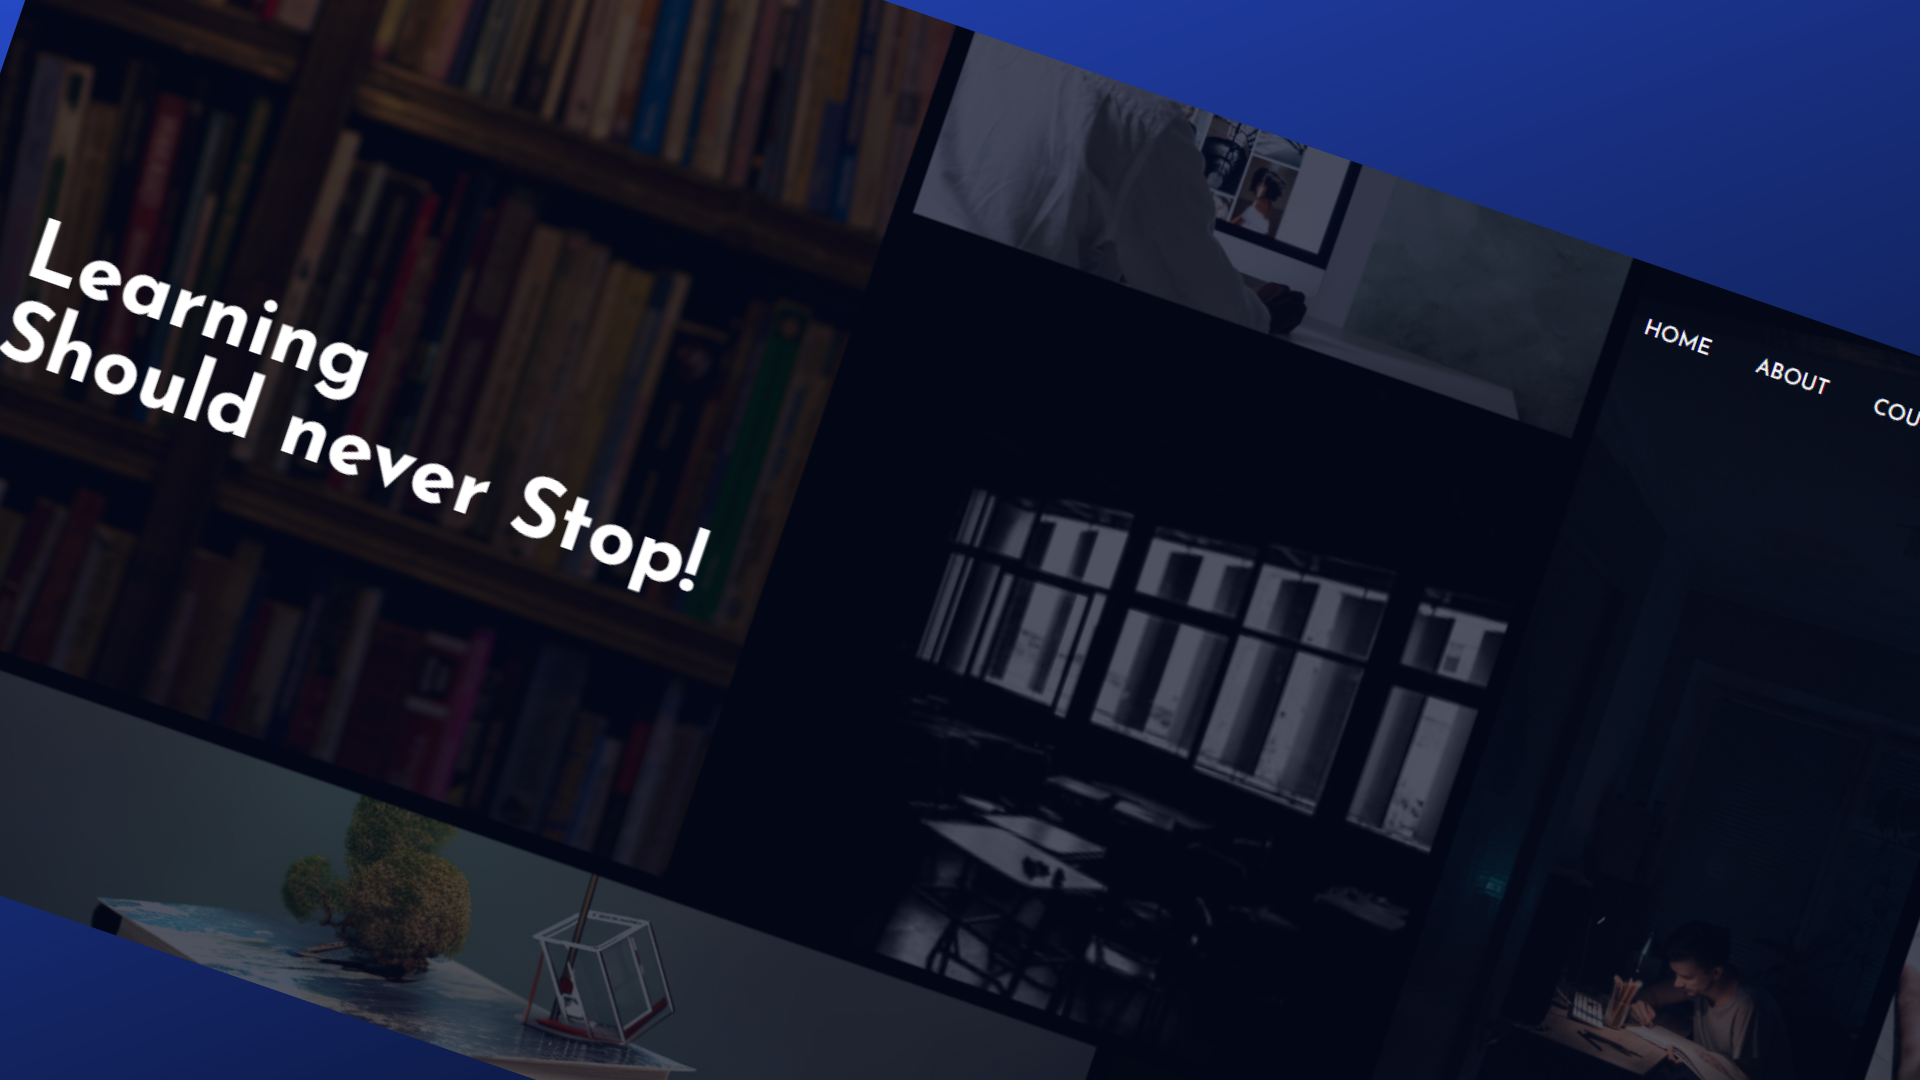
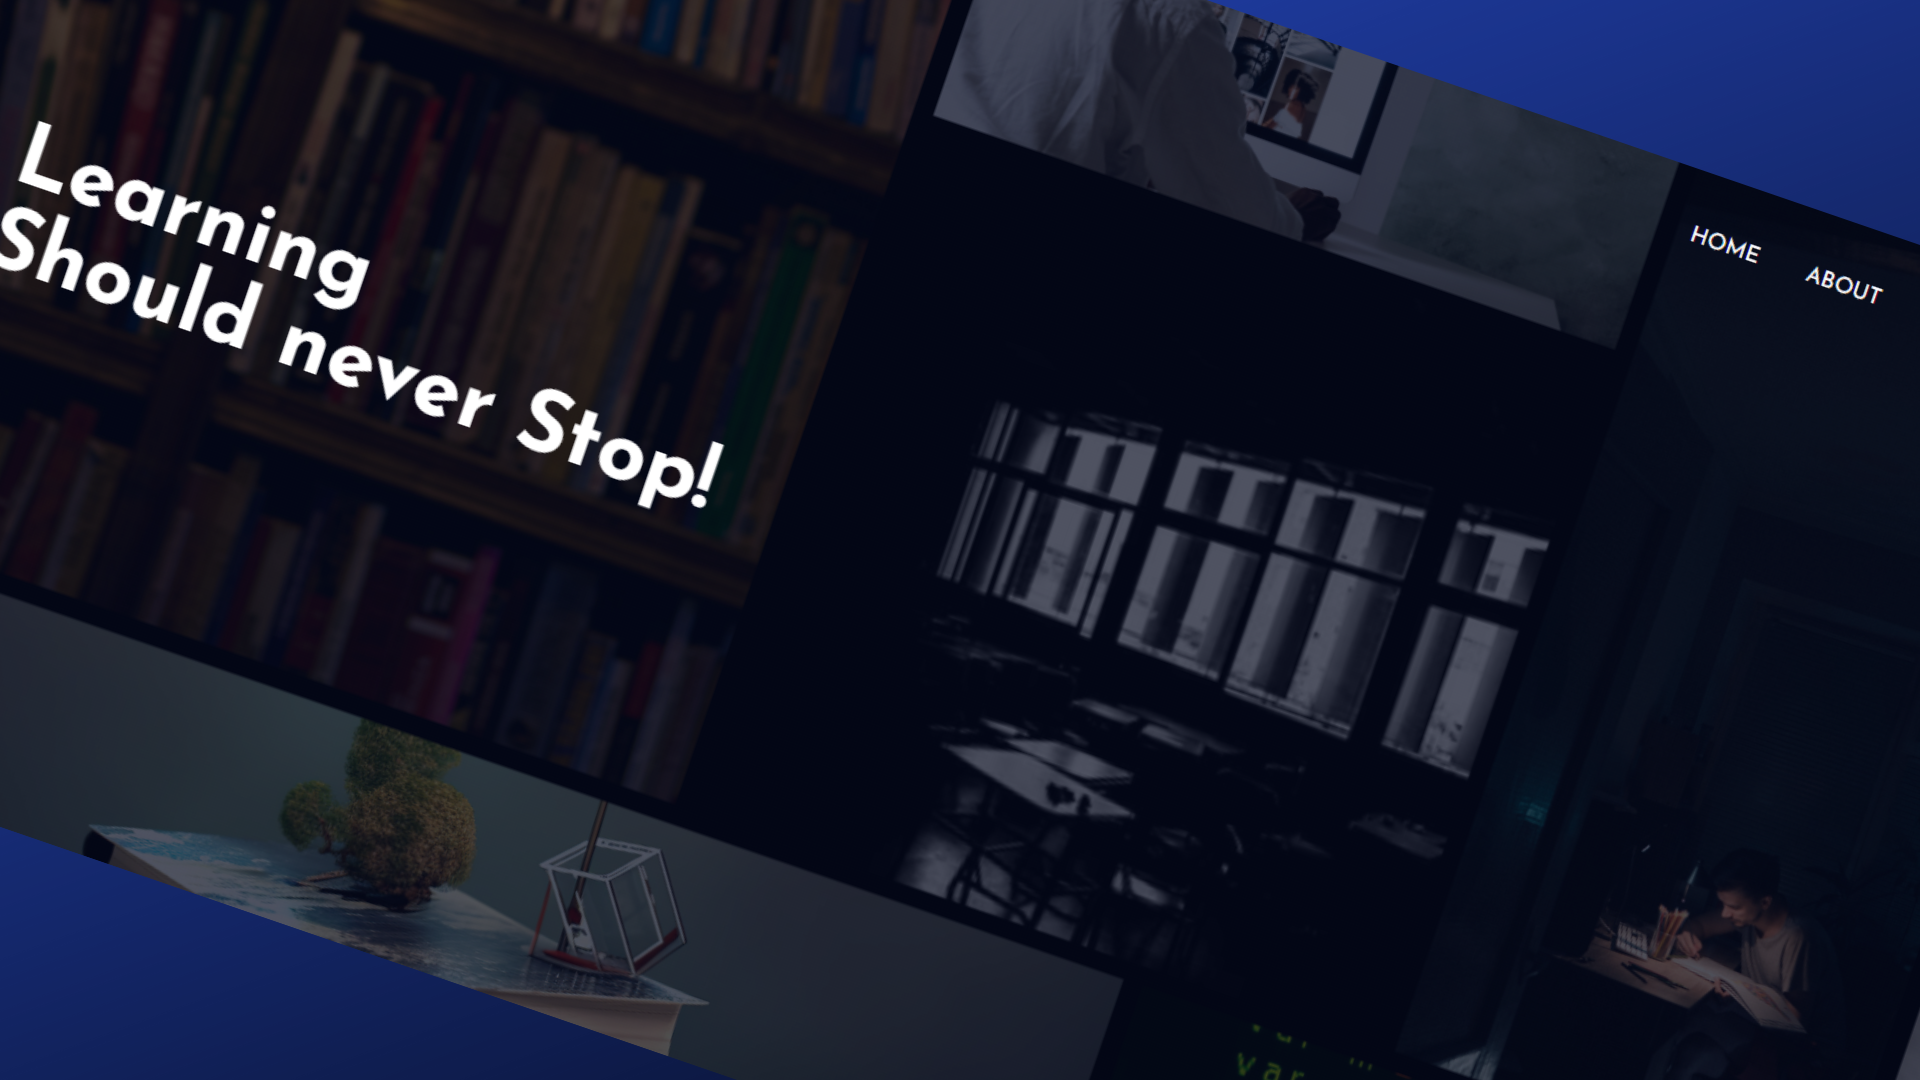
2nd final

diff --git a/components/ui/Form.tsx b/components/ui/Form.tsx
@@ -1,21 +1,22 @@
 "use client";
 
-import Image from "next/image";
 import React, { useState } from "react";
 import { CardBody, CardContainer, CardItem } from "../ui/3d-card";
-import Link from "next/link";
 import { Bounce, ToastContainer, toast } from 'react-toastify';
 import 'react-toastify/dist/ReactToastify.css';
 import emailjs from 'emailjs-com';
 import { MdOutlineClose } from "react-icons/md";
 
-export function Form() {
 
-    const [name, setname] = useState<string>();
-    const [mail, setmail] = useState<string>();
-    const [message, setmessage] = useState<string>();
-    
+interface FormProps {
+    onClose: () => void;
+  }
 
+export function Form({ onClose }: FormProps) {
+
+    const [name, setname] = useState<string>('');
+    const [mail, setmail] = useState<string>('');
+    const [message, setmessage] = useState<string>('');
 
     const notify = () => toast.success('Submitted Successfully!', {
         position: "top-center",
@@ -69,25 +70,30 @@ export function Form() {
 
     return (
         <CardContainer className="inter-var">
-            <CardBody className="relative group/card xl:mt-[-40px] mt-[-60px] dark:hover:shadow-2xl dark:hover:shadow-emerald-500/[0.1] bg-transparent dark:border-white/[0.2] border-black/[0.1] xl:w-[480px] w-[23rem] h-auto rounded-xl p-6 border flex justify-center">
-                <CardItem
-                    translateZ="50"
-                    className="xl:text-3xl text-2xl flex flex-col items-center justify-center font-bold text-neutral-600 dark:text-white"
-                >
-                    <h1>Let&apos;s work together  </h1>
-                    <form onSubmit={handleSubmit} className="flex flex-col p-1">
-                        <input onChange={(e) => setname(e.target.value)} value={name} type="text" name="name" placeholder="Name" className="bg-transparent border text-xl border-white/50 mt-5 rounded-xl p-3 sm:p-[-30px] w-[340px] xl:w-[450px] " required />
-                        <input onChange={(e) => setmail(e.target.value)} value={mail} type="email" name="email" placeholder="Email" className="bg-transparent border text-xl border-white/50 mt-5 rounded-xl p-3 sm:p-[-30px] w-[340px]  xl:w-[450px] " required />
-                        <textarea onChange={(e) => setmessage(e.target.value)} value={message} name="text" placeholder="Message" className="bg-transparent border text-xl border-white/50 mt-5 rounded-xl p-3 sm:p-[-30px] w-[340px]  xl:w-[450px] h-[200px]" required />
-                        <button type="submit" className="bg-transparent border text-xl border-white/50 mt-3 rounded-full p-3 sm:p-[-30px] w-[340px]  xl:w-[450px] hover:bg-white hover:text-black">Submit</button>
-                    </form>
-                </CardItem>
-            </CardBody>
+             
+                <CardBody className="relative group/card xl:mt-[-40px] mt-[-60px] mb-[-100px] dark:hover:shadow-2xl dark:hover:shadow-emerald-500/[0.1] bg-transparent dark:border-white/[0.2] border-black/[0.1] xl:w-[480px] w-[23rem] h-auto rounded-xl p-6 border flex justify-center">
+                    <CardItem
+                        translateZ="50"
+                        className="xl:text-3xl text-2xl flex flex-col items-center justify-center font-bold text-neutral-600 dark:text-white"
+                    >
+                        <MdOutlineClose onClick={onClose}  className="xl:mt-[-15px] xl:ml-[440px] xl:mb-1 xl:size-7 mt-[-15px] ml-[330px] mb-1 size-5"/>
+
+                        <h1>Let&apos;s work together
+                        </h1>
+
+                        <form onSubmit={handleSubmit} className="flex flex-col p-1">
+                            <input onChange={(e) => setname(e.target.value)} value={name} type="text" name="name" placeholder="Name" className="bg-transparent border text-xl border-white/50 mt-5 rounded-xl p-3 sm:p-[-30px] w-[340px] xl:w-[450px] " required />
+                            <input onChange={(e) => setmail(e.target.value)} value={mail} type="email" name="email" placeholder="Email" className="bg-transparent border text-xl border-white/50 mt-5 rounded-xl p-3 sm:p-[-30px] w-[340px]  xl:w-[450px] " required />
+                            <textarea onChange={(e) => setmessage(e.target.value)} value={message} name="text" placeholder="Message" className="bg-transparent border text-xl border-white/50 mt-5 rounded-xl p-3 sm:p-[-30px] w-[340px]  xl:w-[450px] h-[200px]" required />
+                            <button type="submit" className="bg-transparent border text-xl border-white/50 mt-3 rounded-full p-3 sm:p-[-30px] w-[340px]  xl:w-[450px] hover:bg-white hover:text-black">Submit</button>
+                        </form>
+                    </CardItem>
+                   
+                </CardBody>
+            
         </CardContainer>
     );
 };
 export default Form;
-function setFormVisible(arg0: boolean) {
-    throw new Error("Function not implemented.");
-}
+
 

diff --git a/app/page.tsx b/app/page.tsx
@@ -7,39 +7,42 @@ import RecentProjects from "@/components/RecentProjects";
 import Approach from "@/components/Approach";
 import { FloatingNav } from "@/components/ui/FloatingNav";
 import { Bounce, ToastContainer, toast } from 'react-toastify';
+import LocomotiveScroll from "locomotive-scroll";
+
 
 const Home = () => {
-    return (
-   
-        <main className="relative bg-black-100 flex justify-center overflow-x-hidden overflow-y-hidden items-center flex-col mx-auto sm:px-10 px-5">
+  const locomotiveScroll = new LocomotiveScroll();
+  return (
+    <main className="relative bg-black-100 flex justify-center overflow-x-hidden overflow-y-hidden items-center flex-col mx-auto sm:px-10 px-5">
+      <div className="max-w-7xl w-full">
+        
+        <FloatingNav
+          navItems={navItems}
 
-          <div className="max-w-7xl w-full">
-            <FloatingNav
-              navItems={navItems}
-            />
-            <Hero />
-            <Grid />
-            <RecentProjects />
-            <Approach />
-            <Footer />
-            <ToastContainer
-              position="top-center"
-              autoClose={5000}
-              hideProgressBar={false}
-              newestOnTop={false}
-              closeOnClick
-              rtl={false}
-              pauseOnFocusLoss
-              draggable
-              pauseOnHover
-              theme="dark"
-              transition={Bounce}
-            />
-          </div>
-        </main>
+        />
+        <Hero />
+        <Grid />
+        <RecentProjects />
+        <Approach />
+        <Footer />
+        <ToastContainer
+          position="top-center"
+          autoClose={5000}
+          hideProgressBar={false}
+          newestOnTop={false}
+          closeOnClick
+          rtl={false}
+          pauseOnFocusLoss
+          draggable
+          pauseOnHover
+          theme="dark"
+          transition={Bounce}
+        />
+      </div>
+    </main>
 
-    );
-  
+  );
+
 };
 
 export default Home;

diff --git a/components/Approach.tsx b/components/Approach.tsx
@@ -25,8 +25,8 @@ const Approach = () => {
                         containerClassName="bg-transparent rounded-3xl overflow-hidden"
                         colors={[
                             // change the colors of the
-                            [0, 0, 7],
-                            [105, 205, 251],
+                            [255, 187, 0],
+                            [255, 187, 0],
                         ]}
                         dotSize={3}
                        
@@ -47,8 +47,8 @@ const Approach = () => {
                         containerClassName="bg-transparent rounded-3xl overflow-hidden"
                         colors={[
                             // change the colors of the
-                            [0, 0, 7],
-                            [200, 40, 121],
+                            [255, 0, 90],
+                            [255, 0, 90],
                         ]}
                         dotSize={3}
                        
@@ -66,8 +66,8 @@ const Approach = () => {
                         containerClassName="bg-transparent rounded-3xl overflow-hidden"
                         colors={[
                             // change the colors of the
-                            [0, 0, 7],
-                            [100, 155, 55],
+                            [0, 51, 255],
+                            [0, 51, 255],
                         ]}
                         dotSize={3}
                     />
@@ -103,7 +103,9 @@ const Card = ({
                 background: "rgb(4,7,29)",
                 backgroundColor:
                     "linear-gradient(90deg, rgba(4,7,29,1) 0%, rgba(12,14,35,1) 100%)",
+                
             }}
+            
         >
             
 

diff --git a/components/Footer.tsx b/components/Footer.tsx
@@ -1,5 +1,4 @@
 import { FaLocationArrow } from "react-icons/fa6";
-
 import { socialMedia } from "@/data";
 import MagicButton from "../components/ui/MagicButton";
 import {Form} from "../components/ui/Form";
@@ -7,19 +6,21 @@ import { useState } from "react";
 
 const Footer = () => {
   const [isFormVisible, setFormVisible] = useState(false);
+
   const handleClick = () => {
     setFormVisible(true);
+  };
+
+  const handleCloseForm = () => {
+    setFormVisible(false);
   };
 
   return (
     <footer className="relative w-full pt-20 pb-10 mt-[-150px]" id="contact">
       {/* background grid */}
-
-
       <div className="flex flex-col items-center">
         <h1 className="heading lg:max-w-[45vw] text-6xl text-center">
           Let&apos;s<span className="text-purple"> Connect!</span>
-
         </h1>
         <p className="text-white-200 md:mt-10 my-5 text-2xl text-center">
           Reach out today to discuss how I can help you
@@ -34,7 +35,7 @@ const Footer = () => {
             handleClick={handleClick}
           />
         </div>
-        {isFormVisible && <Form />}
+        {isFormVisible && <Form onClose={handleCloseForm} />}
       </div>
 
       <div className="flex items-center justify-center md:gap-3 gap-6 mt-10">

diff --git a/components/ui/MagicButton.tsx b/components/ui/MagicButton.tsx
@@ -15,7 +15,7 @@ const MagicButton = ({
 
         <button onClick={handleClick} className="relative inline-flex h-12 overflow-hidden rounded-full p-[1px] focus:outline-none md:w-[200px] md:mt-10">
             <span className="absolute inset-[-2000%] z-0 animate-[spin_2s_linear_infinite] bg-[conic-gradient(from_90deg_at_50%_50%,#E2CBFF_0%,#393BB2_50%,#E2CBFF_100%)]"  style={{zIndex: 0}} />
-            <span className={`relative z-10 inline-flex h-full w-full cursor-pointer items-center justify-center rounded-full bg-black px-3 py-1 text-md font-medium text-white backdrop-blur-3xl ${otherClasses}`}>
+            <span className={`relative z-10 inline-flex h-full w-full cursor-pointer items-center justify-center rounded-full bg-zinc-900 px-3 py-1 text-md font-medium text-white backdrop-blur-3xl ${otherClasses}`}>
                 {position === 'left' && icon}
                 {title}
                 {position === 'right' && icon}

diff --git a/components/ui/Background-boxes.tsx b/components/ui/Background-boxes.tsx
@@ -24,7 +24,7 @@ export const BoxesCore = ({ className, ...rest }: { className?: string }) => {
   return (
     <div
       style={{
-        transform: `translate(-40%,-60%) skewX(-48deg) skewY(14deg) scale(0.675) rotate(0deg) translateZ(0)`,
+        transform: `translate(-40%,-60%) scale(1) rotate(0deg) translateZ(0)`,
       }}
       className={cn(
         "absolute left-1/4 p-4 -top-1/4 flex  -translate-x-1/2 -translate-y-1/2 w-full h-full z-0 ",
@@ -47,7 +47,7 @@ export const BoxesCore = ({ className, ...rest }: { className?: string }) => {
                 transition: { duration: 2 },
               }}
               key={`col` + j}
-              className="w-16 h-8 relative"
+              className="w-20 h-20 relative"
             >
               {j % 2 === 0 && i % 2 === 0 ? (
                 <svg

diff --git a/data/index.ts b/data/index.ts
@@ -12,8 +12,8 @@ export const navItems = [
   export const gridItems = [
     {
       id: 1,
-      title: "Bachelor's of Computer Application Student",
-      description: "",
+      title: "Bachelor's of Computer Application Student At Christ University",
+      description: " Batch of 2025",
       className: "lg:col-span-3 md:col-span-6 md:row-span-4 lg:min-h-[60vh]",
       imgClassName: "w-full h-full",
       titleClassName: "justify-end",
